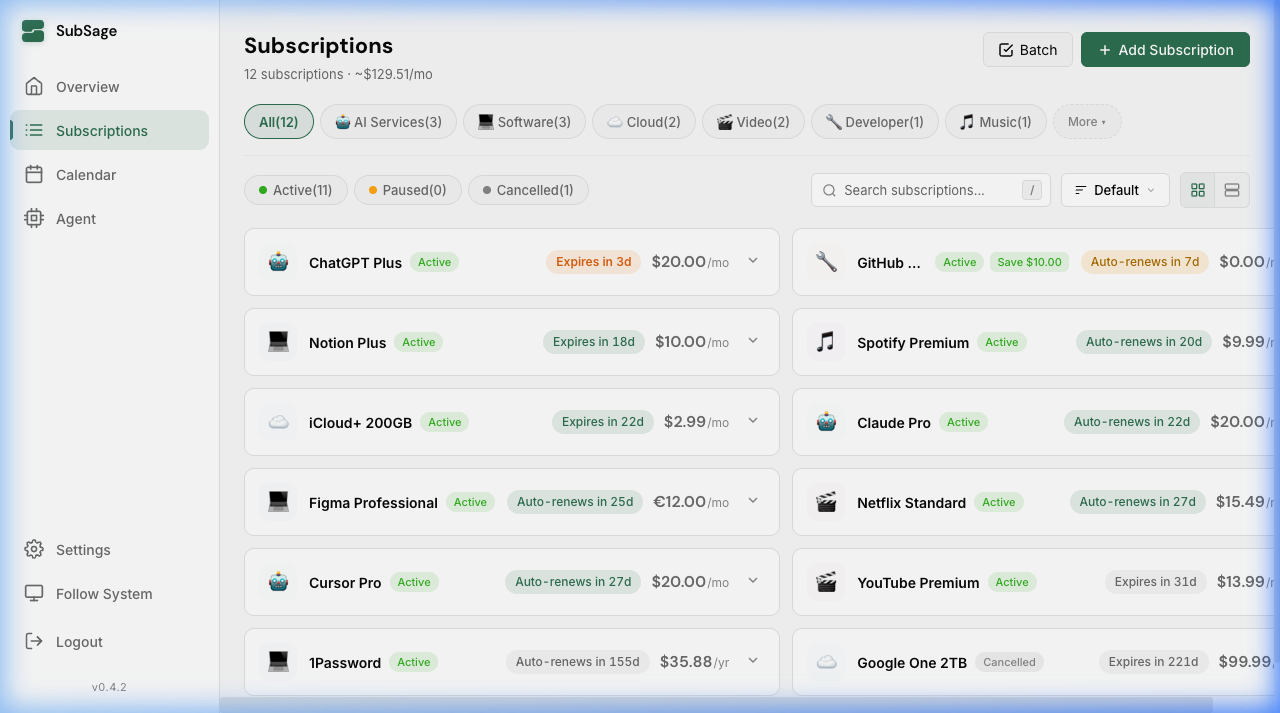
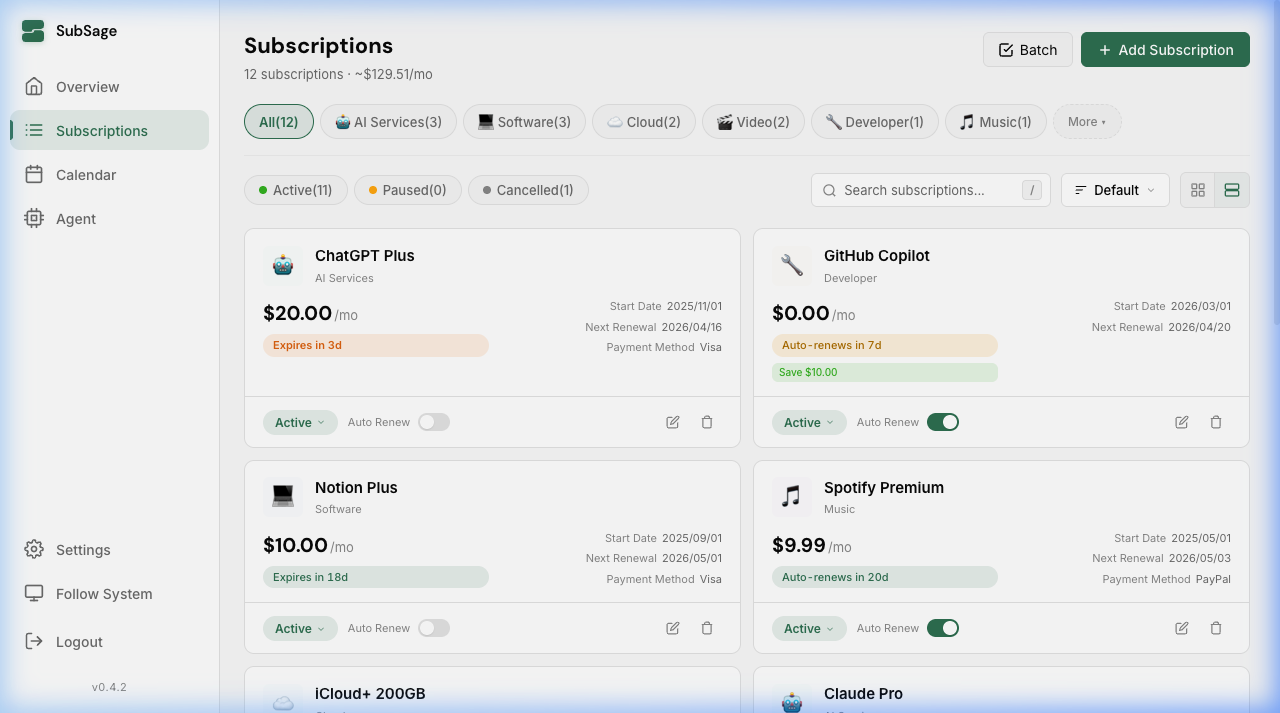
v0.4.3: subscription page responsive design fix for small desktop viewports
- Add @user (max-width: 1440px) breakpoint for grid degradation (compact→single-col, card→dual-col)
- Add @user (max-width: 1024px) breakpoint for toolbar/search/batch reflow
- Fix card content overflow: allow sub-top-right to shrink, add overflow protection
- Update subscription page screenshots for README (light, dark, mobile)

diff --git a/frontend/src/pages/SubList.svelte b/frontend/src/pages/SubList.svelte
@@ -1303,6 +1303,7 @@
     background: var(--surface); border: 1px solid var(--border); border-radius: var(--radius);
     transition: all var(--transition); cursor: pointer;
     text-align: left; width: 100%; color: inherit; position: relative;
+    overflow: hidden;
   }
   .sub-card:hover {
     box-shadow: var(--shadow-md);
@@ -1334,7 +1335,7 @@
   .sub-name-group { display: flex; align-items: center; gap: 8px; min-width: 0; flex: 1; }
   .sub-badges { display: flex; align-items: center; gap: 6px; flex-shrink: 0; }
   .sub-name { font-weight: 600; font-size: 16px; white-space: nowrap; overflow: hidden; text-overflow: ellipsis; }
-  .sub-top-right { display: flex; align-items: center; gap: 10px; flex-shrink: 0; }
+  .sub-top-right { display: flex; align-items: center; gap: 10px; flex-shrink: 1; min-width: 0; overflow: hidden; }
 
   .status-badge { font-size: 11px; font-weight: 500; padding: 2px 8px; border-radius: var(--radius); flex-shrink: 0; }
   .status-active { background: rgba(68, 185, 49, 0.12); color: var(--success); }
@@ -1389,6 +1390,7 @@
     font-size: 12px; font-weight: 500; padding: 3px 10px;
     border-radius: var(--radius-xl); white-space: nowrap;
     font-variant-numeric: tabular-nums;
+    overflow: hidden; text-overflow: ellipsis; flex-shrink: 1;
   }
   .renewal-badge-overdue { background: rgba(237, 63, 63, 0.12); color: var(--error); }
   .renewal-badge-overdue-mild { background: rgba(245, 130, 32, 0.12); color: #E07020; }
@@ -1658,6 +1660,58 @@
   }
   .animate-sheet-up {
     animation: sheetUp 0.3s cubic-bezier(0.32, 0.72, 0, 1) forwards;
+  }
+
+  /* ===== Grid Degradation (accounts for expanded sidebar ~220px) ===== */
+  @media (max-width: 1440px) {
+    /* Compact view: single column — sidebar eats 220px, content ≤1060px */
+    .sub-list.compact-view {
+      grid-template-columns: 1fr;
+      gap: 8px;
+    }
+
+    /* Card view: 2 columns instead of 3 */
+    .sub-list.card-view {
+      grid-template-columns: repeat(2, 1fr);
+      gap: 12px;
+    }
+  }
+
+  /* ===== Small Desktop Responsive (toolbar/search/batch reflow) ===== */
+  @media (max-width: 1024px) {
+    /* Toolbar: wrap to two rows */
+    .toolbar {
+      flex-wrap: wrap;
+      gap: 10px;
+    }
+    .status-pills {
+      width: 100%;
+      order: -1;
+    }
+    .filters {
+      flex: 1;
+      min-width: 0;
+    }
+
+    /* Search box: adaptive width instead of fixed 240px */
+    .search-box {
+      width: auto;
+      flex: 1;
+      min-width: 140px;
+    }
+
+    /* Batch bar: allow wrapping */
+    .batch-bar {
+      flex-wrap: wrap;
+    }
+    .batch-actions {
+      flex-wrap: wrap;
+    }
+
+    /* Category pills: ensure smooth scroll hint */
+    .pill-filters {
+      position: relative;
+    }
   }
 
   @media (max-width: 768px) {

diff --git a/backend/static/index.html b/backend/static/index.html
@@ -14,7 +14,7 @@
   <link rel="preconnect" href="https://fonts.googleapis.com" />
   <link rel="preconnect" href="https://fonts.gstatic.com" crossorigin />
   <link href="https://fonts.googleapis.com/css2?family=DM+Sans:wght@400;500;600;700&family=Inter:wght@300;400;500;600&display=swap" rel="stylesheet" />
-  <script type="module" crossorigin src="/assets/index-BdE-2kET.js"></script>
+  <script type="module" crossorigin src="/assets/index-CGRglsYT.js"></script>
   <link rel="stylesheet" crossorigin href="/assets/index-CoMG7Teb.css">
 </head>
 <body>

diff --git a/frontend/src/version.js b/frontend/src/version.js
@@ -1,2 +1,2 @@
 // Single source of truth for app version
-export const APP_VERSION = 'v0.4.2';
+export const APP_VERSION = 'v0.4.3';

diff --git a/docs/architecture.md b/docs/architecture.md
@@ -3,7 +3,7 @@
 ## 概述
 SubSage is a self-hosted subscription management tool. **AI Agent Native**: it exposes itself as a tool for your existing AI Agent via REST API.
 
-**当前版本**: v0.4.2
+**当前版本**: v0.4.3
 
 ## 产品定位
 

diff --git a/README.md b/README.md
@@ -199,6 +199,7 @@ See the full changelog at [GitHub Releases](https://github.com/wangjc683/subsage
 | v0.3.0 | Calendar heatmap visualization, cross-page category drill-down, comprehensive UI/UX audit (11 fixes: hover-reveal actions, unified pill styles, design token migration, trend line polish) |
 | v0.4.0 | Auto-renewal tracking, Agent page overhaul (secure token reveal, 3-card layout), subscription card layout redesign, unified renewal badge system, mobile responsiveness fixes |
 | v0.4.1 | New card view with dashboard-style info cards, compact/card view toggle, mobile form optimization, touch target improvements |
+| v0.4.3 | Subscription page responsive design fix for small desktop viewports (grid degradation breakpoints, toolbar reflow, overflow protection) |
 | v0.4.2 | Mobile agenda view for calendar, multi-currency conversion fix (Calendar + SubList), PWA icon optimization (high-res PNG), 44px touch targets audit, unified detail grid layout |
 | v0.2.3 | Delete bug fix, full i18n audit (zero hardcoded strings), page transitions, calendar category colors, graduated overdue badges, keyboard shortcuts, dark mode polish |
 | v0.2.2 | List/grid view toggle, modal form redesign (segmented controls, styled selects), overview layout merge, dynamic daily cost hints, a11y cleanup |

diff --git a/README_zh.md b/README_zh.md
@@ -199,6 +199,7 @@ SubSage 是 Agent 原生的 —— 升级也可以是一段对话。把下面这
 | v0.3.0 | 日历热力图可视化、分类支出跨页钻取、全站 UI/UX 审计修复（11 项：悬停显示操作按钮、统一 pill 样式、设计 token 迁移、趋势线优化） |
 | v0.4.0 | 自动续费追踪、Agent 页面重构（安全令牌展示、三卡片布局）、订阅卡片布局重设计、统一续费徽章系统、移动端适配修复 |
 | v0.4.1 | 新增仪表板式卡片视图、紧凑/卡片视图切换、移动端表单紧凑化、触摸目标优化 |
+| v0.4.3 | 订阅页面小尺寸桌面响应式优化（网格断点降级、工具栏重排、溢出保护） |
 | v0.4.2 | 移动端日历议程视图、多货币汇率转换修复、PWA 高清图标、44px 触摸目标审计、统一详情网格布局 |
 | v0.2.3 | 修复删除竞争 bug、i18n 全覆盖（零硬编码）、页面过渡动画、日历分类着色、逾期分级徽章、键盘快捷键、深色模式优化 |
 | v0.2.2 | 列表/网格视图切换、弹窗表单重构（分段控件、styled selects）、总览布局合并、动态日成本提示、无障碍优化 |